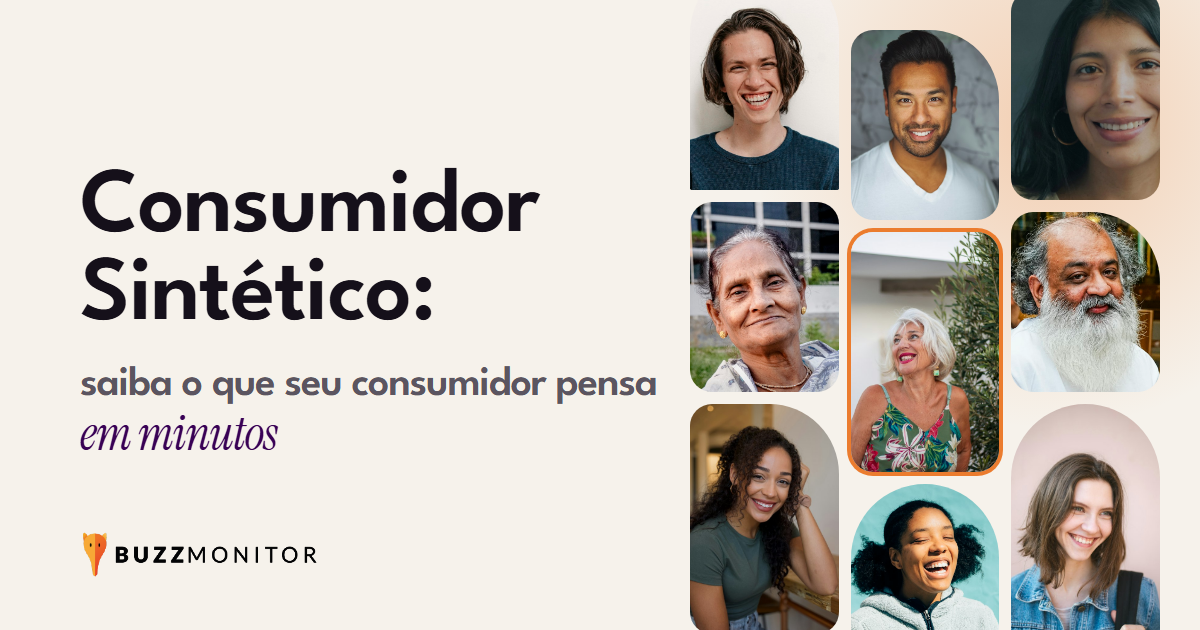
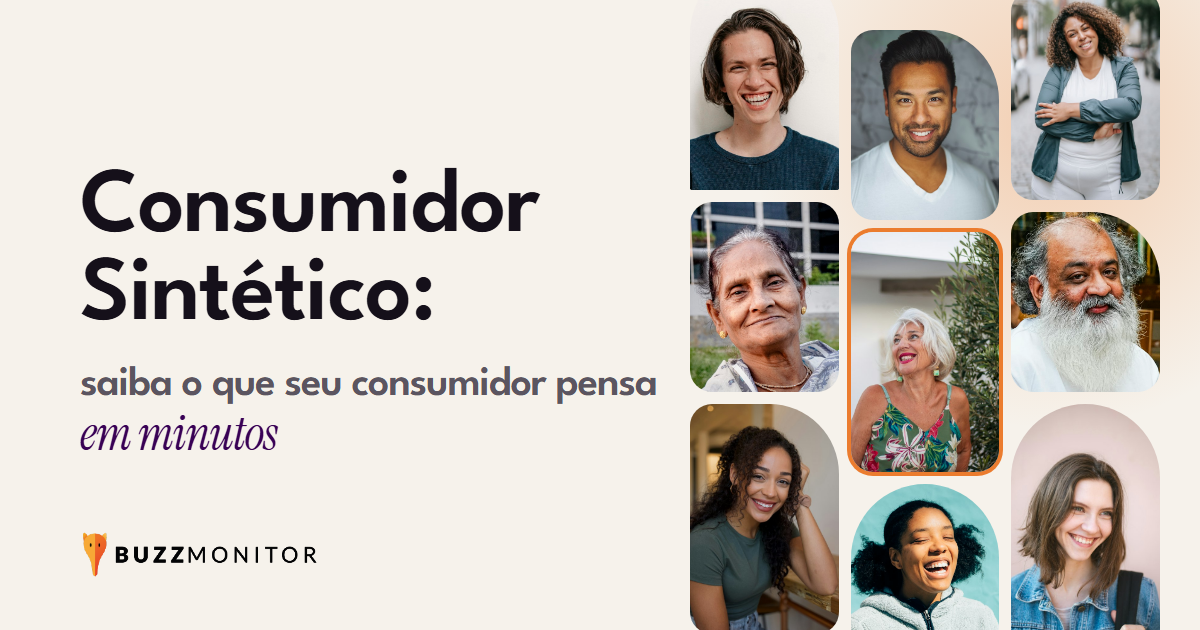
Usar foto do Pexels enviada pela Thamires na LP Consumidor Sintético (#977)

Changed region(s): [[0.8325, 0.0, 0.9867, 0.3317]]

diff --git a/landing-pages/buzzmonitor/consumidor-sintetico/index.html b/landing-pages/buzzmonitor/consumidor-sintetico/index.html
@@ -495,7 +495,7 @@ height="0" width="0" style="display:none;visibility:hidden"></iframe></noscript>
         <div class="mosaic" role="img" aria-label="Painel de consumidores sintéticos de diferentes idades, cidades e classes sociais">
           <div class="mcol"><div class="mc mc--pill" style="--h:210"><img src="assets/p-03.jpg" alt="" width="560" height="760" fetchpriority="high"><span class="mtag">19 anos · Porto Alegre · Classe C1</span></div><div class="mc " style="--h:170"><img src="assets/p-06.jpg" alt="" width="560" height="760" decoding="async"><span class="mtag">71 anos · Fortaleza · Classe C2</span></div><div class="mc mc--leaf2" style="--h:190"><img src="assets/p-04.jpg" alt="" width="560" height="760" decoding="async"><span class="mtag">27 anos · Manaus · Classe C2</span></div></div>
           <div class="mcol"><div class="mc mc--leaf" style="--h:170"><img src="assets/p-11.jpg" alt="" width="560" height="760" fetchpriority="high"><span class="mtag">34 anos · Recife · Classe B2</span></div><div class="mc " style="--h:220"><img src="assets/p-07.jpg" alt="" width="560" height="760" decoding="async"><span class="mtag">63 anos · Florianópolis · Classe B1</span></div><div class="mc mc--pill" style="--h:150"><img src="assets/p-05.jpg" alt="" width="560" height="760" decoding="async"><span class="mtag">23 anos · Salvador · Classe C1</span></div></div>
-          <div class="mcol"><div class="mc " style="--h:190"><img src="assets/p-22.jpg" alt="" width="900" height="1100" decoding="async"><span class="mtag">41 anos · São Paulo · Classe B1</span></div><div class="mc mc--leaf" style="--h:160"><img src="assets/p-17.jpg" alt="" width="560" height="760" decoding="async"><span class="mtag">52 anos · Belo Horizonte · Classe A</span></div><div class="mc mc--leaf2" style="--h:230"><img src="assets/p-10.jpg" alt="" width="560" height="760" decoding="async"><span class="mtag">25 anos · Curitiba · Classe B2</span></div></div>
+          <div class="mcol"><div class="mc " style="--h:190"><img src="assets/p-23.jpg" alt="" width="900" height="1100" decoding="async" style="object-position:50% 12%"><span class="mtag">41 anos · São Paulo · Classe B1</span></div><div class="mc mc--leaf" style="--h:160"><img src="assets/p-17.jpg" alt="" width="560" height="760" decoding="async"><span class="mtag">52 anos · Belo Horizonte · Classe A</span></div><div class="mc mc--leaf2" style="--h:230"><img src="assets/p-10.jpg" alt="" width="560" height="760" decoding="async"><span class="mtag">25 anos · Curitiba · Classe B2</span></div></div>
         </div>
         <p class="mosaic__cap" aria-hidden="true"></p>
       </div>
@@ -538,7 +538,7 @@ height="0" width="0" style="display:none;visibility:hidden"></iframe></noscript>
         </blockquote>
       </div>
       <div class="sol__photo reveal">
-        <img src="assets/p-22.jpg" alt="" width="900" height="1100" loading="lazy">
+        <img src="assets/p-23.jpg" alt="" width="900" height="1100" loading="lazy">
         <div class="stats">
           <div class="stat"><b>1.000</b><p>Até 1.000 consumidores sintéticos por audiência.</p></div>
           <div class="stat"><b>IBGE</b><p>Características reais, da base populacional do IBGE</p></div>

diff --git a/landing-pages/buzzmonitor/consumidor-sintetico/README.md b/landing-pages/buzzmonitor/consumidor-sintetico/README.md
@@ -58,7 +58,8 @@ Arquivos em `assets/`, recortados e comprimidos para web (~970 KB no total). IDs
 | p-13.jpg | 1600603406200-5b2a104684ac |
 | p-17.jpg | 1779630986800-f0ed643f357b |
 | p-21.jpg | 1695927621677-ec96e048dce2 |
-| p-22.jpg | 1790574341204-85a583303492 |
+
+**Foto do Pexels** (licença gratuita do Pexels; atribuição não obrigatória): `p-23.jpg`, foto de Mizuno K, https://www.pexels.com/pt-br/foto/cidade-meio-urbano-mulher-rua-13740534/ (enviada pela Thamires; usada no mosaico do hero e na seção "O que são").
 
 ## Pendências
 
